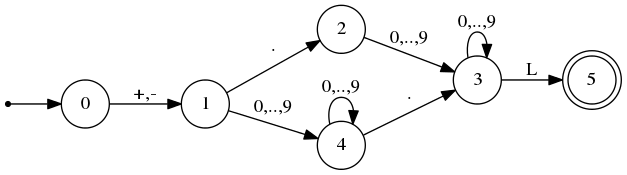
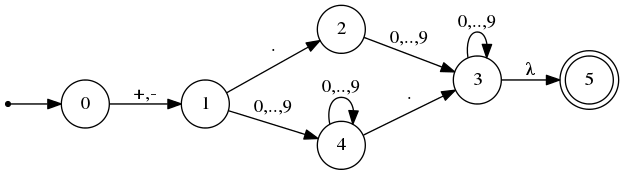
clase martes

diff --git a/Automatas y lenguajes/tex/Ejercicios.tex b/Automatas y lenguajes/tex/Ejercicios.tex
@@ -77,3 +77,42 @@ El autómata sería:
 \end{enumerate}
 \end{problem}
 
+\begin{problem}
+Dados los lenguajes:
+\begin{enumerate}
+\item $L=\{a^{2n}b^{n+1}\}$
+\item $L=\{a^nb^m \tq n > m \geq 0\}$
+\item $L=\{a^nb^mc^k \tq k = n+m \}$
+\end{enumerate}
+Encontrar la gramática y los autómatas a pila que los representan:
+\solution
+\begin{enumerate}
+\item \textbf{Gramática}
+\begin{itemize}
+\item $S \rightarrow aaSb|b$
+\end{itemize}
+\textbf{Autómata}
+\begin{center}
+\includegraphics[scale=0.75]{tex/automata4.png}
+\end{center}
+
+\item \textbf{Gramática}
+\begin{itemize}
+\item $S \rightarrow aSb|aS|a$
+\end{itemize}
+\textbf{Autómata}
+%\begin{center}
+%\includegraphics[scale=0.75]{tex/automata5.png}
+%\end{center}
+
+\item \textbf{Gramática}
+\begin{itemize}
+\item $S \rightarrow aSc|aAc|\lambda$
+\item $A \rightarrow bAc|\lambda$
+\end{itemize}
+\textbf{Autómata}
+%\begin{center}
+%\includegraphics[scale=0.75]{tex/automata6.png}
+%\end{center}
+\end{enumerate}
+\end{problem}

diff --git a/Automatas y lenguajes/AUTLEN.tex b/Automatas y lenguajes/AUTLEN.tex
@@ -299,7 +299,6 @@ El autómata queda:
 \begin{center}
 \includegraphics[scale=0.75]{automata4.png}
 \end{center}
-Siendo L la transición $\lambda$
 \end{example}
 
 \begin{defn}[Fuentes de indeterminismo de un AF]
@@ -514,7 +513,7 @@ En teoría, las etiquetas de los arcos del autómata deberían ser de la forma:
 donde $A$ sería la entrada leída, $b$ el elemento que extraemos del tope de la pila y $c$ la cadena que insertamos en la pila.
 
 Con el fin de poder dibujar esto autómata cómodamente, la notación que usaremos será:
-\[bAc\]
+\[b;A;c\]
 donde $b,A,c$ tienen el mismo significado que el indicado anteriormente.
 
 \begin{example}
